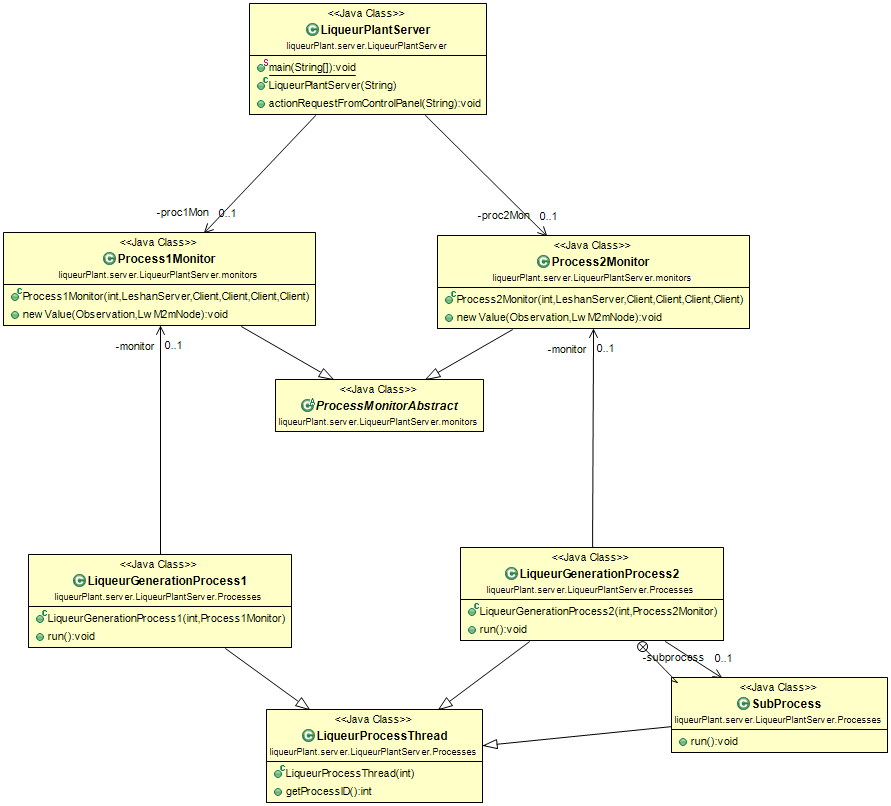
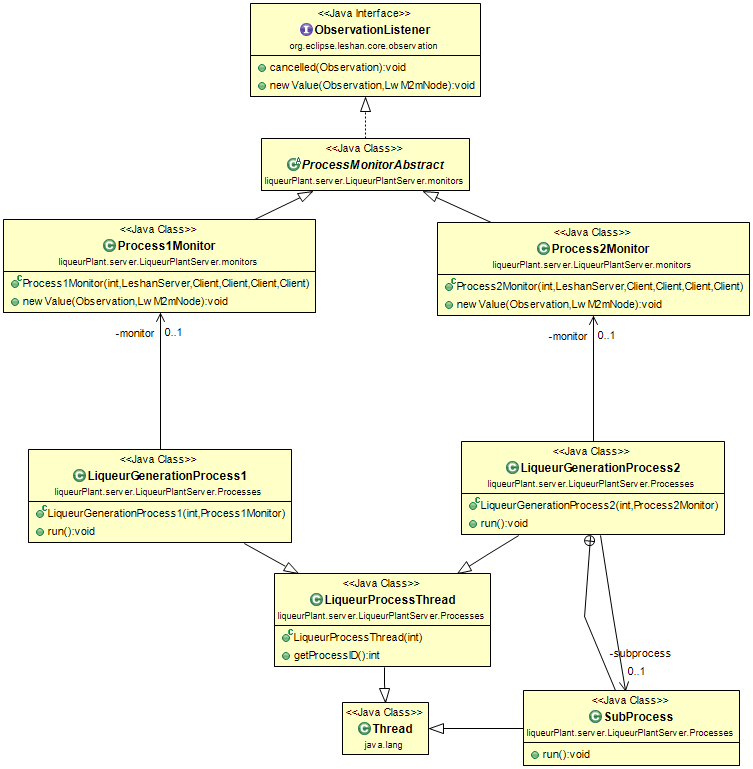
subprocess2 extends thread and not liqueur plant thread

diff --git a/liqueurPlant-server-liqueurPlantServer/src/main/java/liqueurPlant/server/LiqueurPlantServer/Processes/LiqueurGenerationProcess2.java b/liqueurPlant-server-liqueurPlantServer/src/main/java/liqueurPlant/server/LiqueurPlantServer/Processes/LiqueurGenerationProcess2.java
@@ -54,7 +54,7 @@ public class LiqueurGenerationProcess2 extends LiqueurProcessThread {
 					System.out.println("P"+id+" MARK 4");
 					
 					//make the new thread
-					subprocess=new SubProcess(getProcessID());
+					subprocess=new SubProcess();
 					subprocess.start();
 						System.out.println("P"+id+" MARK 5");
 						monitor.waitForPower(id);
@@ -76,7 +76,6 @@ public class LiqueurGenerationProcess2 extends LiqueurProcessThread {
 					try {
 						subprocess.join();
 					} catch (InterruptedException e) {
-						// TODO Auto-generated catch block
 						e.printStackTrace();
 					}
 					
@@ -89,12 +88,12 @@ public class LiqueurGenerationProcess2 extends LiqueurProcessThread {
 	
 	}//end run
 		
-	class SubProcess extends LiqueurProcessThread{
+	class SubProcess extends Thread{
 
 		
-		SubProcess(int processID) {
+		SubProcess() {
 			
-			super(processID);
+			//super(processID);
 			System.out.println("SUBPROCESS CREATED");
 		}
 		
